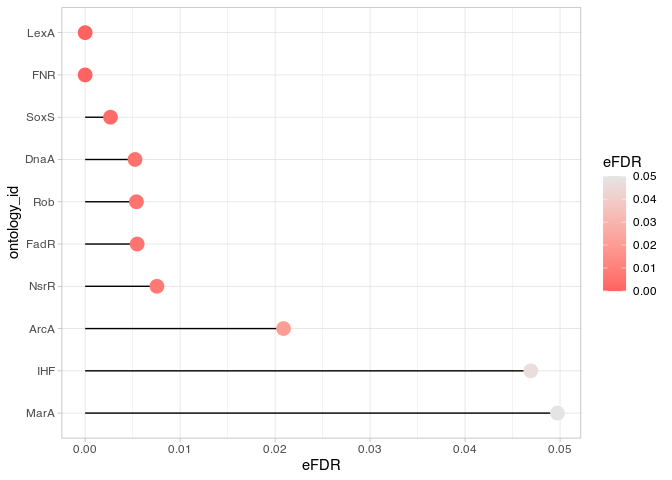
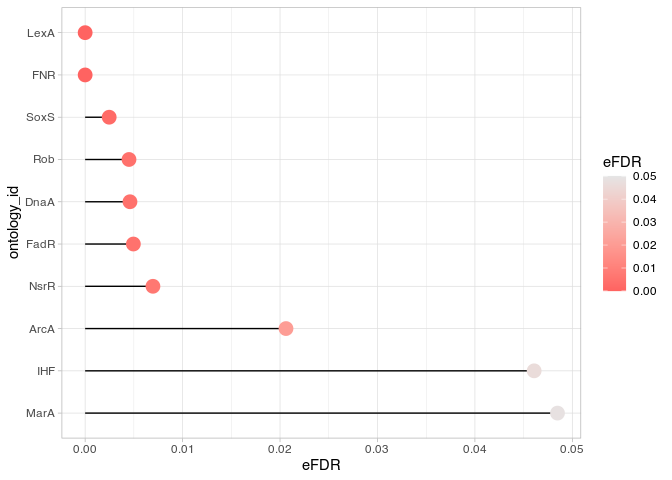
changes in vignette: authors to a row, plot sizes; in DESC BiocManager was added to Imports

diff --git a/README.md b/README.md
@@ -16,8 +16,6 @@
 - [How to Cite the `mulea` Package?](#how-to-cite-the-mulea-package)
 - [References](#references)
 
-<!-- README.md is generated from README.Rmd. Please edit that file -->
-
 <!-- badges: start -->
 
 [![GitHub
@@ -57,19 +55,6 @@ GitHub repository and through the
 ExperimentData Bioconductor package.
 
 # Installation
-
-`mulea` requires the installation of the
-[`fgsea`](https://bioconductor.org/packages/release/bioc/html/fgsea.html)
-Bioconductor package.
-
-``` r
-# Installing the BiocManager package if needed
-if (!require("BiocManager", quietly = TRUE))
-    install.packages("BiocManager")
-
-# Installing the fgsea package from Bioconductor
-BiocManager::install("fgsea")
-```
 
 To install `mulea` from CRAN:
 
@@ -394,14 +379,14 @@ ora_results %>%
 |:------------|:--------------|-------------------------------:|-----------------------------------:|----------:|----------:|
 | FNR         | FNR           |                             26 |                                259 | 0.0000003 | 0.0000000 |
 | LexA        | LexA          |                             14 |                                 53 | 0.0000000 | 0.0000000 |
-| SoxS        | SoxS          |                              7 |                                 37 | 0.0001615 | 0.0026667 |
-| DnaA        | DnaA          |                              4 |                                 13 | 0.0006281 | 0.0052500 |
-| Rob         | Rob           |                              5 |                                 21 | 0.0004717 | 0.0054000 |
-| FadR        | FadR          |                              5 |                                 20 | 0.0003692 | 0.0054750 |
-| NsrR        | NsrR          |                              8 |                                 64 | 0.0010478 | 0.0075571 |
-| ArcA        | ArcA          |                             12 |                                148 | 0.0032001 | 0.0208875 |
-| IHF         | IHF           |                             14 |                                205 | 0.0070758 | 0.0469200 |
-| MarA        | MarA          |                              5 |                                 37 | 0.0066068 | 0.0497333 |
+| SoxS        | SoxS          |                              7 |                                 37 | 0.0001615 | 0.0024667 |
+| Rob         | Rob           |                              5 |                                 21 | 0.0004717 | 0.0045000 |
+| DnaA        | DnaA          |                              4 |                                 13 | 0.0006281 | 0.0046000 |
+| FadR        | FadR          |                              5 |                                 20 | 0.0003692 | 0.0049500 |
+| NsrR        | NsrR          |                              8 |                                 64 | 0.0010478 | 0.0069571 |
+| ArcA        | ArcA          |                             12 |                                148 | 0.0032001 | 0.0206125 |
+| IHF         | IHF           |                             14 |                                205 | 0.0070758 | 0.0460800 |
+| MarA        | MarA          |                              5 |                                 37 | 0.0066068 | 0.0484778 |
 
 ### Visualising the ORA Result
 
@@ -589,7 +574,7 @@ gsea_results %>%
   filter(adjusted_p_value < 0.05) %>% 
   # the number of such rows
   nrow()
-#> [1] 10
+#> [1] 7
 ```
 
 Inspect the significant results:
@@ -604,16 +589,13 @@ gsea_results %>%
 
 | ontology_id | ontology_name | nr_common_with_tested_elements |   p_value | adjusted_p_value |
 |:------------|:--------------|-------------------------------:|----------:|-----------------:|
-| LexA        | LexA          |                             53 | 0.0000000 |        0.0000023 |
-| FNR         | FNR           |                            259 | 0.0000615 |        0.0047032 |
-| ArcA        | ArcA          |                            148 | 0.0002939 |        0.0112426 |
-| ModE        | ModE          |                             45 | 0.0002620 |        0.0112426 |
-| GlaR        | GlaR          |                              3 | 0.0006457 |        0.0192680 |
-| SoxS        | SoxS          |                             37 | 0.0007556 |        0.0192680 |
-| DnaA        | DnaA          |                             13 | 0.0009480 |        0.0207212 |
-| PaaX        | PaaX          |                             14 | 0.0022384 |        0.0428094 |
-| FadR        | FadR          |                             20 | 0.0030154 |        0.0461349 |
-| PspF        | PspF          |                              7 | 0.0030154 |        0.0461349 |
+| LexA        | LexA          |                             53 | 0.0000000 |        0.0000036 |
+| FNR         | FNR           |                            259 | 0.0000660 |        0.0050484 |
+| ArcA        | ArcA          |                            148 | 0.0003577 |        0.0104000 |
+| GlaR        | GlaR          |                              3 | 0.0003714 |        0.0104000 |
+| ModE        | ModE          |                             45 | 0.0002575 |        0.0104000 |
+| SoxS        | SoxS          |                             37 | 0.0004078 |        0.0104000 |
+| DnaA        | DnaA          |                             13 | 0.0005816 |        0.0127119 |
 
 ### Visualising the GSEA Results
 
@@ -867,7 +849,7 @@ sessionInfo()
 #> other attached packages:
 #>  [1] lubridate_1.9.3 forcats_1.0.0   stringr_1.5.1   dplyr_1.1.4    
 #>  [5] purrr_1.0.2     readr_2.1.5     tidyr_1.3.1     tibble_3.2.1   
-#>  [9] ggplot2_3.5.1   tidyverse_2.0.0 mulea_0.99.12  
+#>  [9] ggplot2_3.5.1   tidyverse_2.0.0 mulea_1.0.0    
 #> 
 #> loaded via a namespace (and not attached):
 #>  [1] fastmatch_1.1-4     gtable_0.3.5        xfun_0.44          
@@ -879,7 +861,7 @@ sessionInfo()
 #> [19] farver_2.1.2        munsell_0.5.1       ggforce_0.4.2      
 #> [22] fgsea_1.30.0        graphlayouts_1.1.1  codetools_0.2-20   
 #> [25] htmltools_0.5.8.1   yaml_2.3.8          crayon_1.5.2       
-#> [28] pillar_1.9.0        MASS_7.3-60.2       BiocParallel_1.36.0
+#> [28] pillar_1.9.0        MASS_7.3-60.2       BiocParallel_1.38.0
 #> [31] cachem_1.1.0        viridis_0.6.5       tidyselect_1.2.1   
 #> [34] digest_0.6.35       stringi_1.8.4       labeling_0.4.3     
 #> [37] cowplot_1.1.3       polyclip_1.10-6     fastmap_1.2.0      
